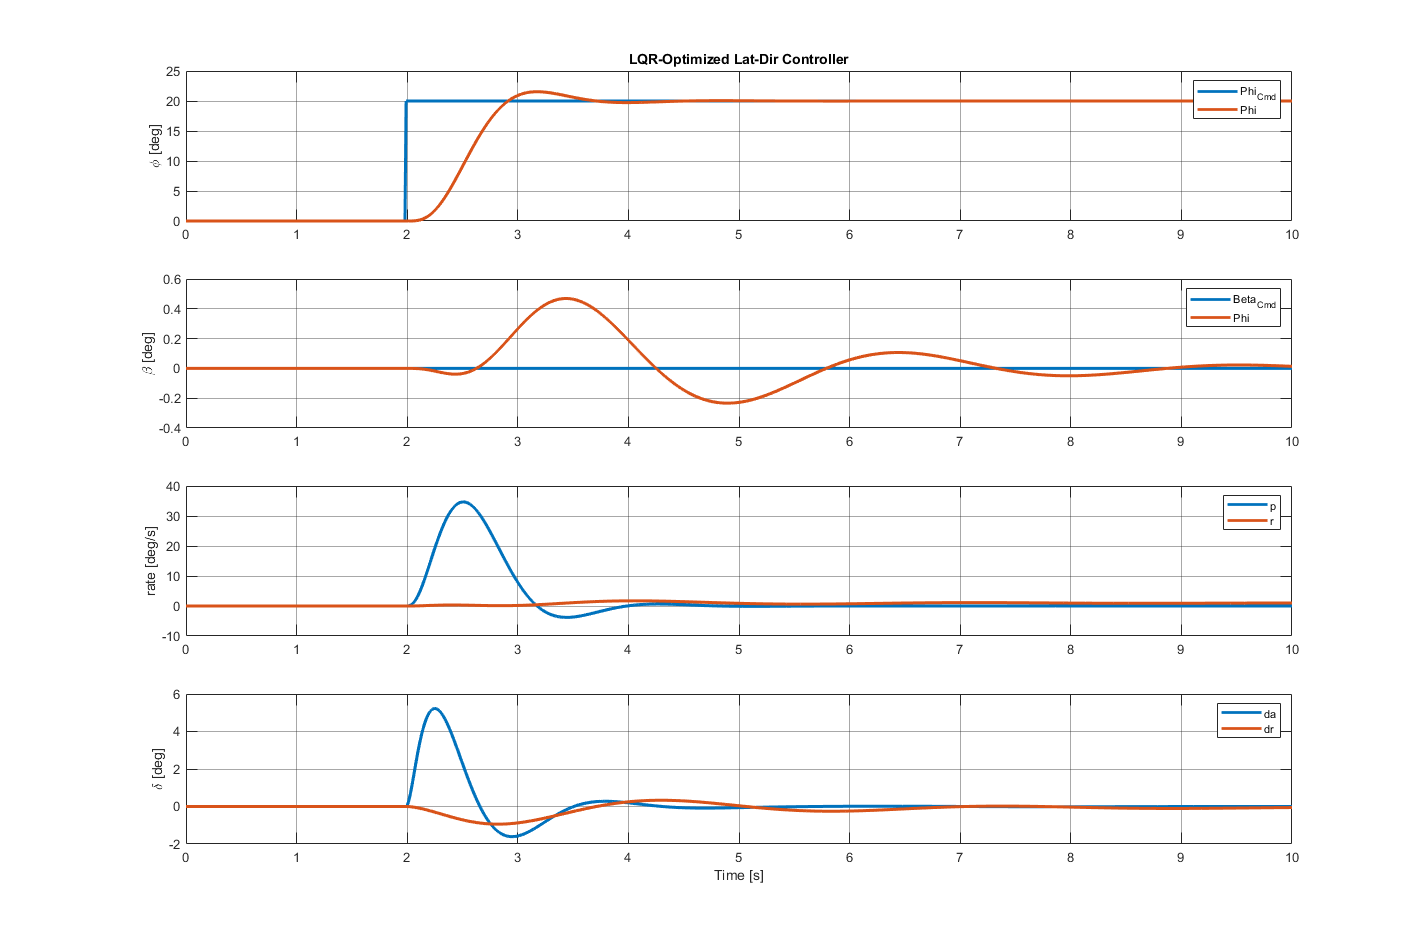
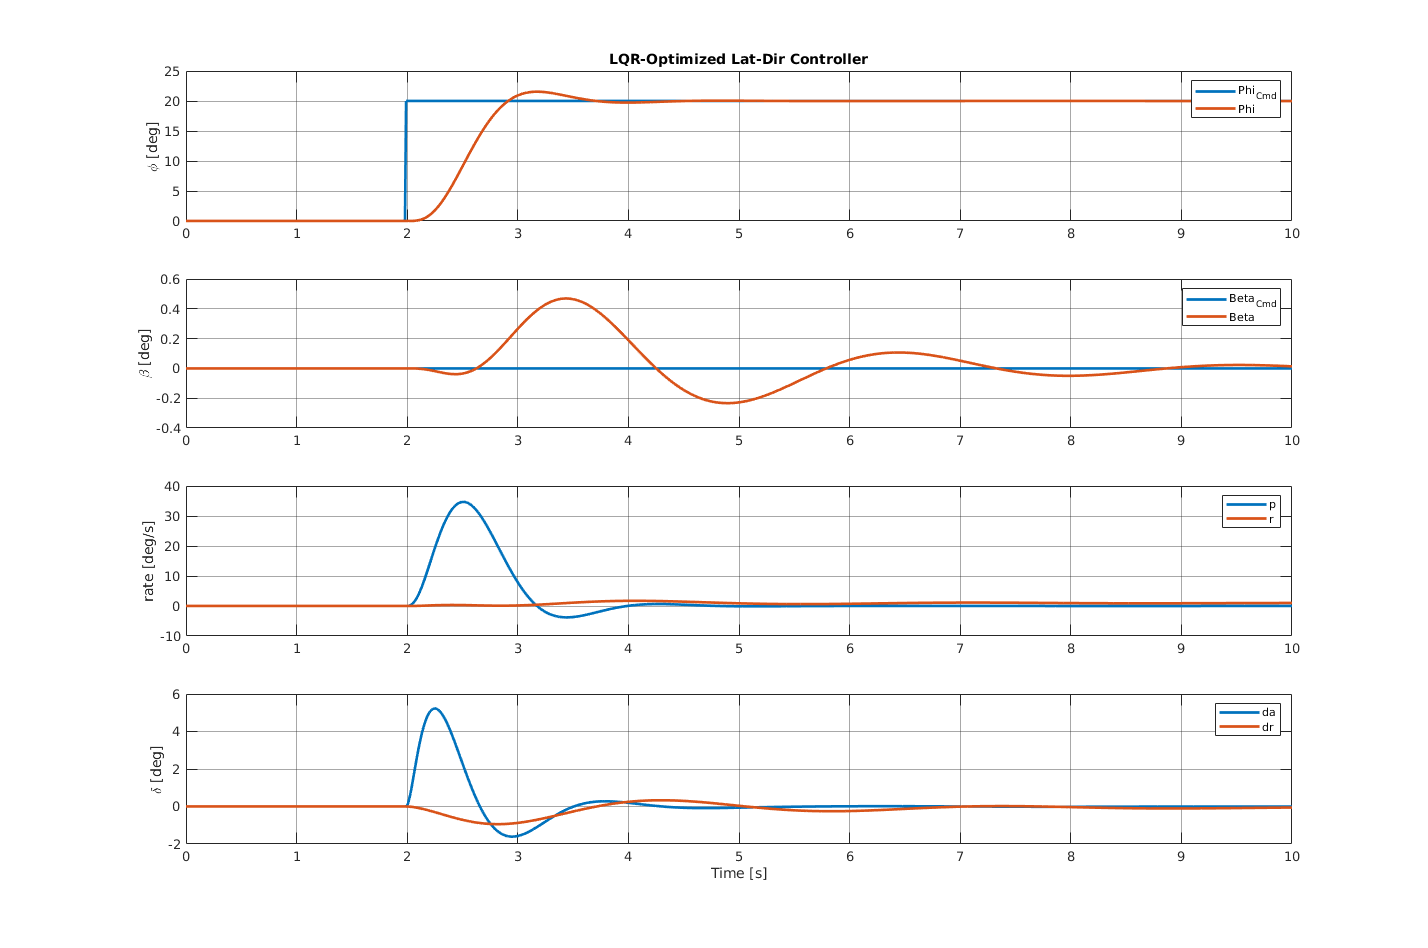
powermerge image path fix to readme

diff --git a/rslqr/rslqrScript.m b/rslqr/rslqrScript.m
@@ -166,7 +166,7 @@ subplot(4,1,2);
 plot(T,u(:,2)*180/pi,'LineWidth',2);
 grid on; hold on;
 plot(T,Y(:,4)*180/pi,'LineWidth',2);
-legend('Beta_{Cmd}','Phi');
+legend('Beta_{Cmd}','Beta');
 ylabel('\beta [deg]');
 set(get(fh,'CurrentAxes'),'GridAlpha',0.4,'MinorGridAlpha',0.7);
 

diff --git a/rslqr/README.md b/rslqr/README.md
@@ -256,7 +256,8 @@ $$
 
 
 We can now simulate the step response for a $\phi_{cmd}$ and a $\beta_{cmd}$ and plot the results.  
-![closedLoopStepResponse](https://github.com/fgabbert/ControlsSandbox/assets/13810793/d3c23b96-6ab2-4f6f-9dac-376d4c64f49c)
+![closedLoopStepResponse](https://github.com/fgabbert/ControlsSandbox/assets/13810793/5ab6d1af-8504-4724-a44a-0a31662d4c4a)
+
 
 As seen above, for a 20 degree bank angle command:
 - Acceptable rise time and settling time
